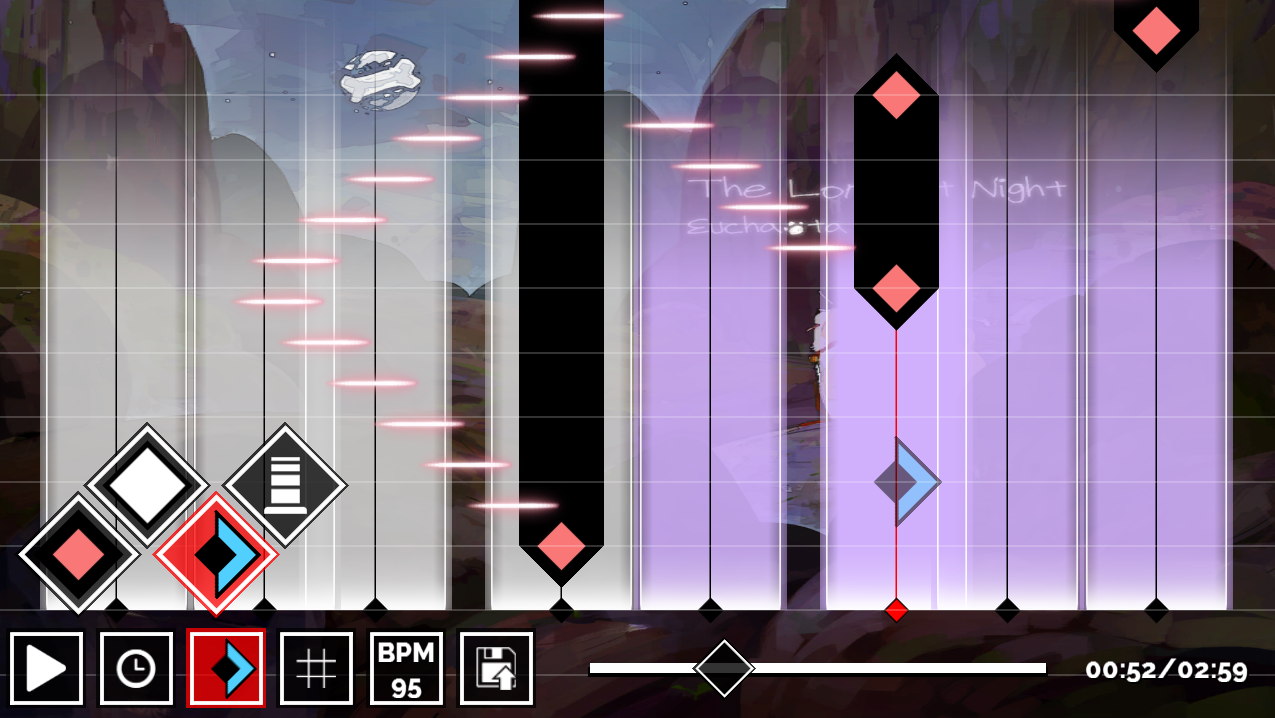
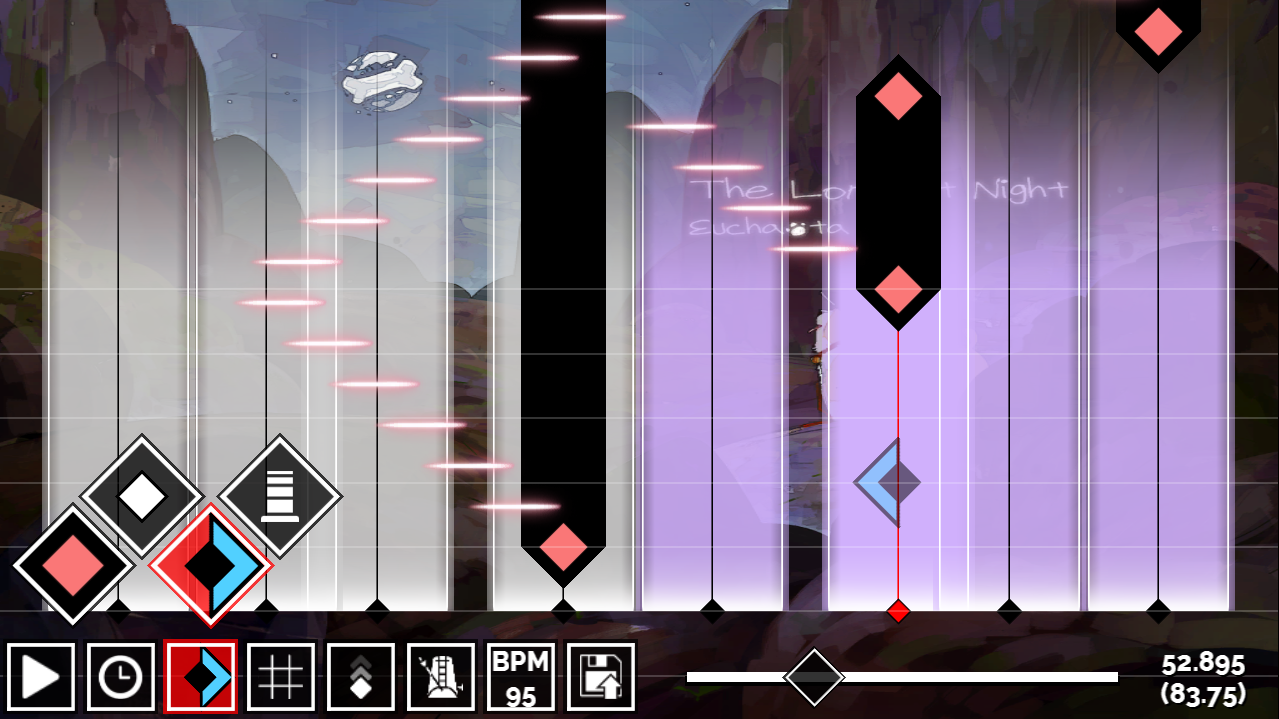
Updated documentation

diff --git a/README/usage.html b/README/usage.html
@@ -66,6 +66,7 @@ div.title {
 <table style="width:1280px;">
 <tr><td style="text-align:center;">
 <img src="manual_imgs/title.png" /><br><br>
+<b>Program Download and Source: <a href="https://github.com/AndrewFM/VoezEditor/releases" target="_blank">Github</a></b><br>
 <b>By <a href="http://eggzero.tumblr.com/" target="_blank" >AndrewFM</a></b>
 </td></tr>
 <tr><td>
@@ -108,18 +109,24 @@ From left to right, the tools are:
 		<li>Shift + 5 Key: 2 Beats Per Measure</li>
 		<li>Shift + 6 Key: 1 Beat Per Measure</li></ul>
 	</li>
+	<li><b>Scroll Speed</b>: Change the speed at which the notes scroll down along the tracks. This is a visual change only, it does not affect the timings of the song at all.</li>
+	<li><b>Audio Assistance</b>: Provides a couple audio guide tools:
+		<ul><li><b>Metronome</b>: When this is enabled, a click will be heard every time one beat elapses.</li>
+			<li><b>Hit Sounds</b>: When this is enabled, a sound will play whenever a note on a track intersects with the play line.</li></ul>
+	</li> 
 	<li><b>Beats Per Minute</b>: Adjusts the BPM value for the song. If this value is not correct, then the time signature grid (and thus, the notes you place) will be out of sync with the beats in the song. Calibrating this value is the very first thing you should do before starting creating a beat map for your song. Performing this calibration is explained in the next section.</li>
 	<li><b>Save</b>: Saves all of your edits to disk. Note that this will overwrite your previous save files every time. If you want to keep periodic backups, you'll need to manually backup the ActiveProjects folder from time to time.</li>
 	<li><b>Scrubber</b>: This bar shows the current playback progress through the song, and allows you to navigate to any time in the song by clicking and dragging the scrubber.<ul>
 		<li><b>Loop Point</b>: You can right-click the scrubber to set a loop point at its current location. Once the loop point is placed, the scrubber can be jumped back to that position at any point by pressing the <b>Enter</b> key, or by pressing the <b>Middle Mouse Button</b>, or by right-clicking the Play button.</li>
 		<li>While the song is paused, you can use the Arrow Keys/WASD keys, or the Scroll Wheel on the mouse to frame advance/rewind the scrubber. Hold down the Shift key to advance the time at a faster rate.</li>
 	</ul></li>
+	<li><b>Timer</b>: The current song time. The number on top is the time in seconds, the number on bottom in parentheses is the cumulative beat count.</li>
 </ol>
 
 <h2>Setting the BPM</h2>
 Click on the BPM button to enable BPM editing mode. While active you can use the Scroll Wheel on the mouse, or the Arrow Keys/WASD Keys to edit the value of the BPM. Hold down the Shift key to scroll the value at a faster pace. (This is the standard control scheme for editing any numeric values in the editor)
 <br><br>
-While BPM editing mode is enabled, if you start playing the song, the screen will pulse at the current BPM rate that you have set. Adjust the BPM value until the pulsing rate is perfectly in sync with the music. Try playing with the playback speed options to also help with this calibration.
+While BPM editing mode is enabled, if you start playing the song, the screen will pulse at the current BPM rate that you have set. Adjust the BPM value until the pulsing rate is perfectly in sync with the music. The playback speed options and the metronome can be helpful with this calibration.
 <br><br>
 When done, click the BPM button again to exit BPM editing mode.
 
@@ -138,8 +145,8 @@ Once you have tracks placed down, they need to be configured to adjust their dur
 Use the left mouse button on the different fields in the window to select them from editing. Each tab has three main values:
 <table><tr><td>
 <ul>
-	<li><b>Spawn Time:</b> The time (in seconds) at which the track will first spawn.</li>
-	<li><b>Despawn Time:</b> The time (in seconds) at which the track will disappear.</li>
+	<li><b>Spawn Time:</b> The time at which the track will first spawn.</li>
+	<li><b>Despawn Time:</b> The time at which the track will disappear.</li>
 	<li><b>Value:</b> The base value the track will have when it is <i>first spawned</i>, for the current tab:
 		<ul>
 			<li><b>Position:</b> A value between 0% and 100%, where 0% is the far left side of the screen, and 100% is the far right side of the screen. Note that when editing postion values, you can hold the <b>Right Mouse Button</b> to snap the track to the mouse cursor and drag and drop it to the desired position, instead of trying to set the numerical value manually.</li>
@@ -174,7 +181,7 @@ To edit the attributes of a placed note, hover over it with the mouse, and left 
 <img src="manual_imgs/noteEditWindow.PNG"/><br><br>
 The three buttons on the top will change which type of note this is. The value fields below will change attributes about the note:
 <ul>
-	<li><b>Spawn Time:</b> The time (in seconds) in the song when this note needs to be tapped/swiped by the player.</li>
+	<li><b>Spawn Time:</b> The time in the song when this note needs to be tapped/swiped by the player.</li>
 	<li><b>Hold Duration:</b> Only available for click notes. If this is set to a value other than 0, then the click note becomes a hold note. If you want to make a hold note that moves around, you need to keyframe the track's position. See the previous section on track editing above.</li>
 	<li><b>Direction:</b> Only available for swipe notes. Lets you select whether it should be swiped to the left, or swiped to the right.
 </ul>

diff --git a/Assets/Scripts/UI/EditorUI.cs b/Assets/Scripts/UI/EditorUI.cs
@@ -365,6 +365,7 @@ public class EditorUI {
                 SpawnPlaybackTimeButtons();
             else
                 DespawnPlaybackTimeButtons();
+            InputManager.ClearMouseInputs();
             playbackTimeButton.toggled = playbackTimes != null;
             playbackTimeButton.clicked = false;
         }
@@ -376,6 +377,7 @@ public class EditorUI {
                 SpawnNoteButtons();
             else
                 DespawnNoteButtons();
+            InputManager.ClearMouseInputs();
             notesButton.toggled = noteTypes != null;
             notesButton.clicked = false;
         }
@@ -387,6 +389,7 @@ public class EditorUI {
                 SpawnGridButtons();
             else
                 DespawnGridButtons();
+            InputManager.ClearMouseInputs();
             gridButton.toggled = snapTimes != null;
             gridButton.clicked = false;
         }
@@ -398,6 +401,7 @@ public class EditorUI {
                 SpawnScrollButtons();
             else
                 DespawnScrollButtons();
+            InputManager.ClearMouseInputs();
             scrollButton.toggled = scrollRates != null;
             scrollButton.clicked = false;
         }
@@ -409,6 +413,7 @@ public class EditorUI {
                 SpawnSoundAssistButtons();
             else
                 DespawnSoundAssistButtons();
+            InputManager.ClearMouseInputs();
             soundAssistButton.toggled = metronomeToggle != null;
             soundAssistButton.clicked = false;
         }
@@ -463,6 +468,7 @@ public class EditorUI {
                     // Automatically close the playback time selector after a choice has been made.
                     if (playbackTimeButton.toggled) {
                         DespawnPlaybackTimeButtons();
+                        InputManager.ClearMouseInputs();
                         playbackTimeButton.toggled = false;
                         break;
                     }
@@ -540,6 +546,7 @@ public class EditorUI {
                     // Automatically close the note type selector after a choice has been made.
                     if (notesButton.toggled) {
                         DespawnNoteButtons();
+                        InputManager.ClearMouseInputs();
                         notesButton.toggled = false;
                         break;
                     }
@@ -608,6 +615,7 @@ public class EditorUI {
                     // Automatically close the grid snap selector after a choice has been made.
                     if (gridButton.toggled) {
                         DespawnGridButtons();
+                        InputManager.ClearMouseInputs();
                         gridButton.toggled = false;
                         break;
                     }
@@ -629,6 +637,7 @@ public class EditorUI {
                     // Automatically close the scroll rate selector after a choice has been made.
                     if (scrollButton.toggled) {
                         DespawnScrollButtons();
+                        InputManager.ClearMouseInputs();
                         scrollButton.toggled = false;
                         break;
                     }

diff --git a/Assets/Scripts/InputManager.cs b/Assets/Scripts/InputManager.cs
@@ -113,6 +113,13 @@ public class InputManager {
         return rightPushed || dPushed || (Util.ShiftDown() && Input.GetAxis("Mouse ScrollWheel") > 0);
     }
 
+    public static void ClearMouseInputs()
+    {
+        leftMousePushed = false;
+        rightMousePushed = false;
+        middleMousePushed = false;
+    }
+
     private bool oneNowDown;
     private bool oneLastDown;
     private bool twoNowDown;
